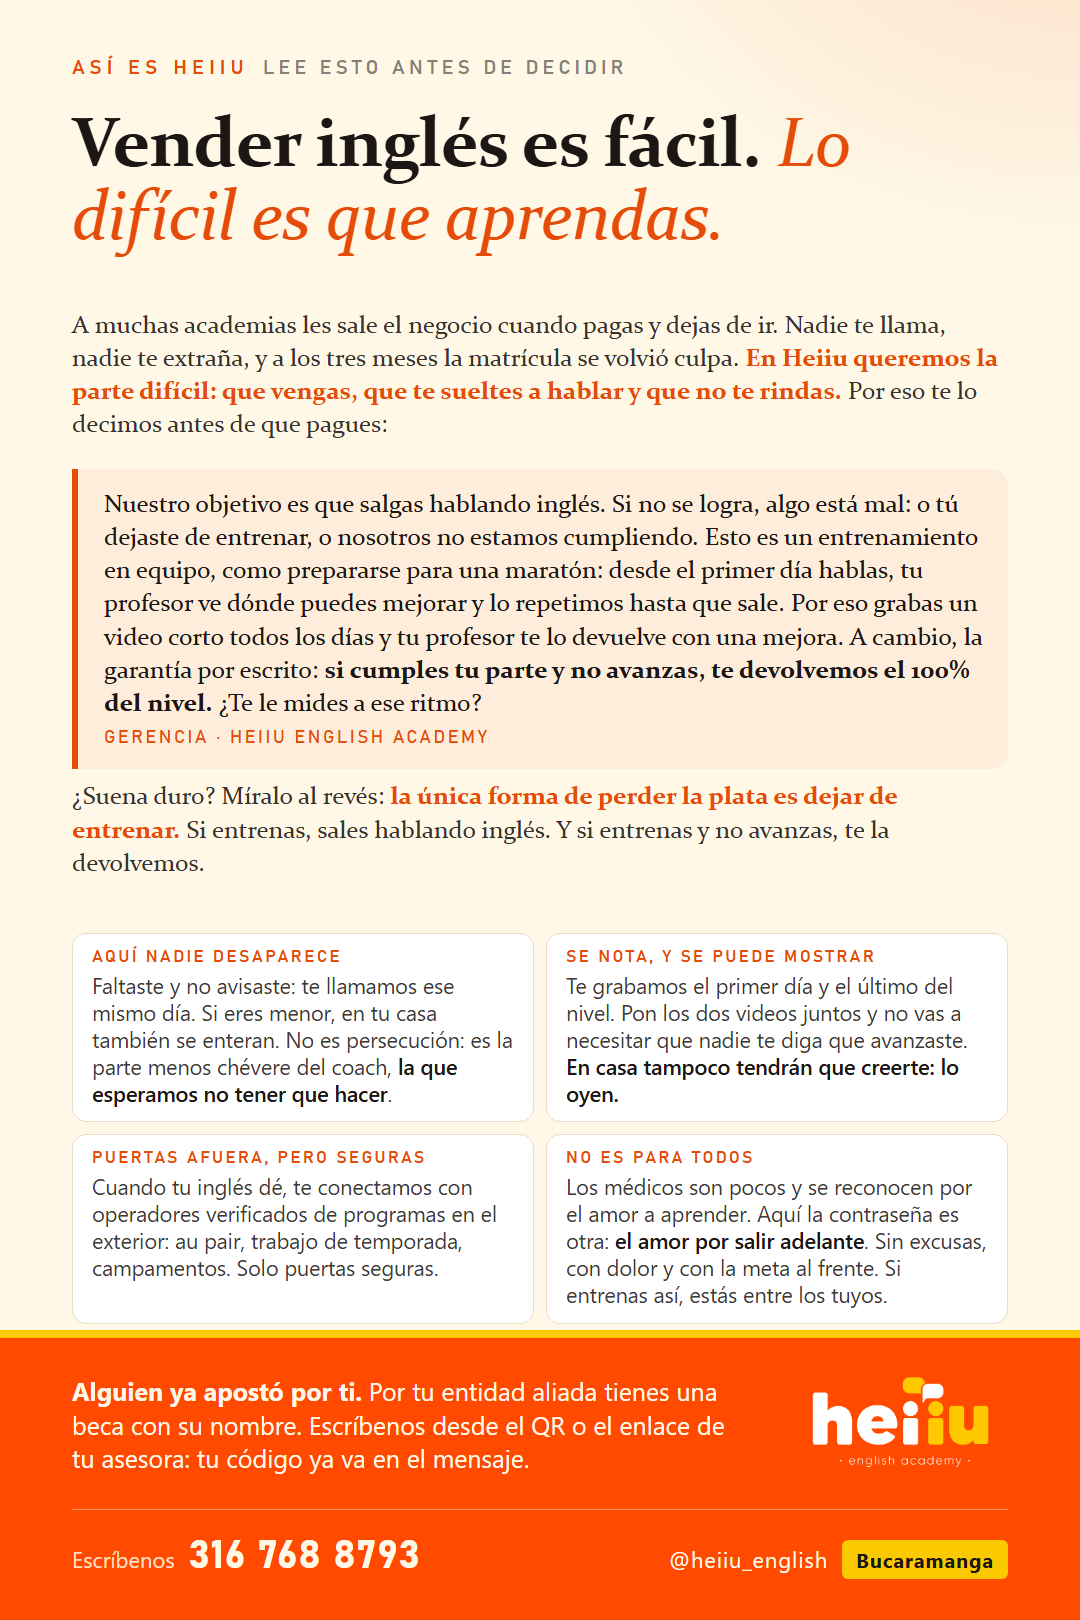
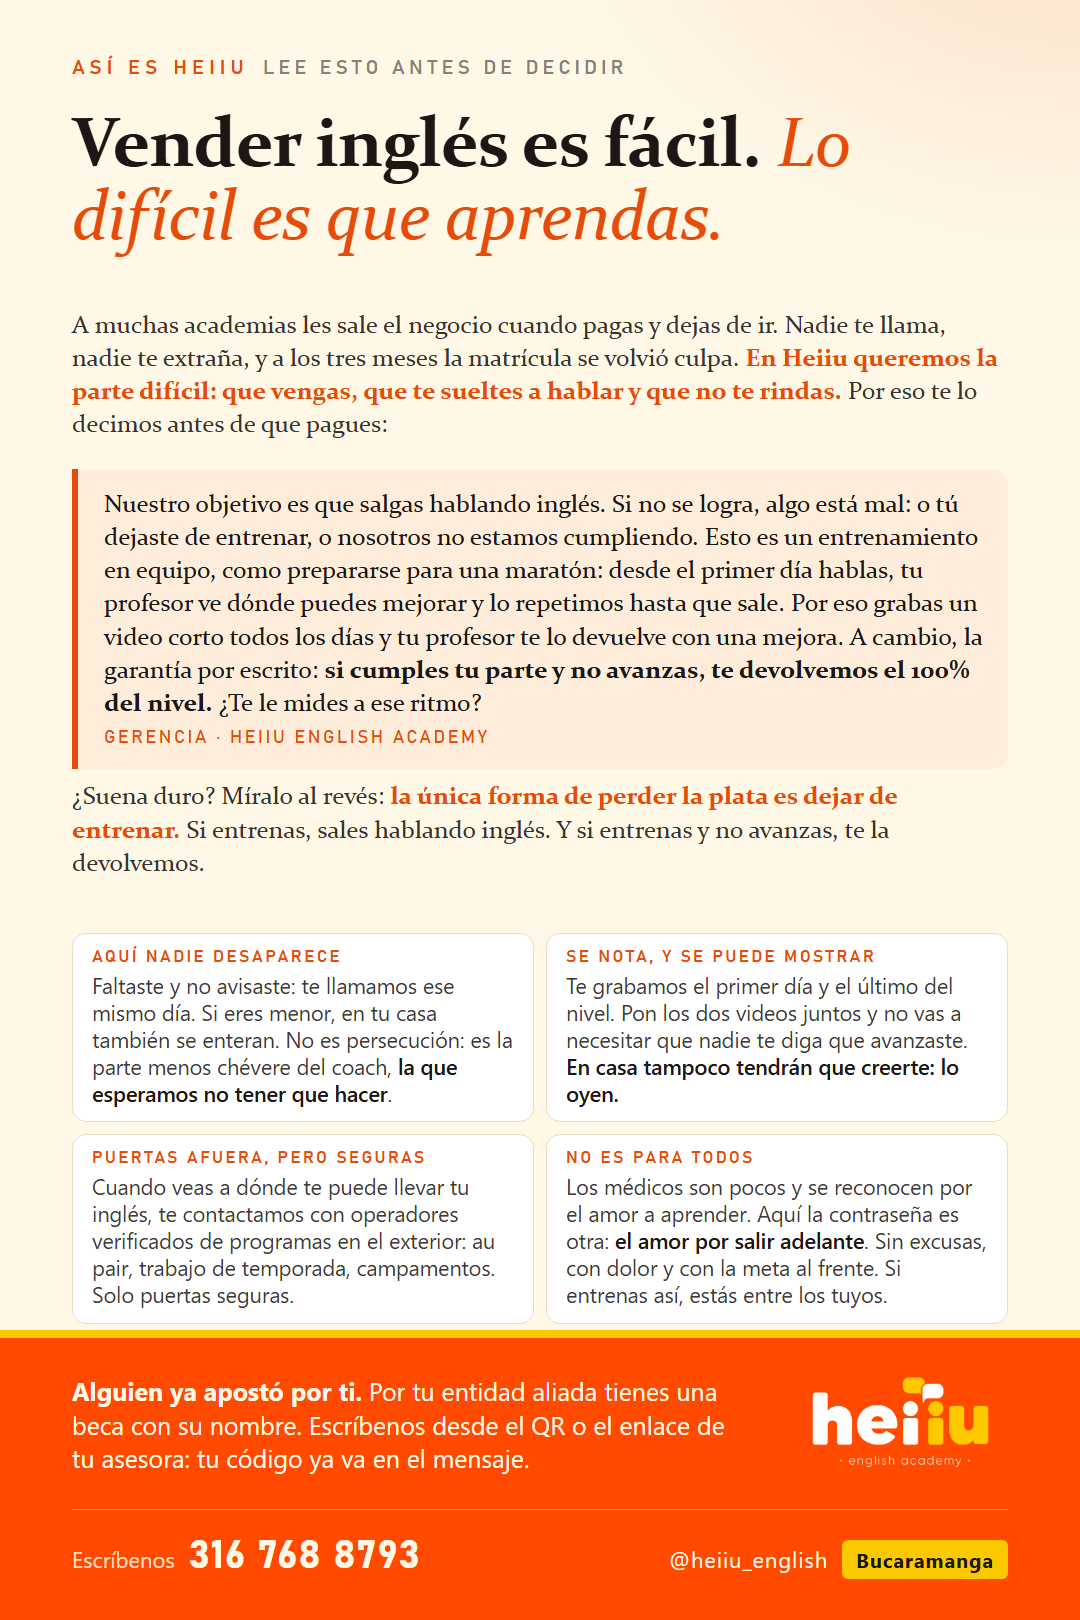
Pieza general respaldo: 'cuando veas a donde te puede llevar tu ingles, te contactamos con operadores verificados'

Changed region(s): [[0.0917, 0.7099, 0.4583, 0.8025]]

diff --git a/generadores/comercial/gen_piezas_conciencia.py b/generadores/comercial/gen_piezas_conciencia.py
@@ -129,7 +129,7 @@ PIEZAS = {
         st=[], lead='', big='', big2='',
         why=[('AQUÍ NADIE DESAPARECE', 'Faltaste y no avisaste: te llamamos ese mismo día. Si eres menor, en tu casa también se enteran. No es persecución: es la parte menos chévere del coach, <b>la que esperamos no tener que hacer</b>.', False),
              ('SE NOTA, Y SE PUEDE MOSTRAR', 'Te grabamos el primer día y el último del nivel. Pon los dos videos juntos y no vas a necesitar que nadie te diga que avanzaste. <b>En casa tampoco tendrán que creerte: lo oyen.</b>', False),
-             ('PUERTAS AFUERA, PERO SEGURAS', 'Cuando tu inglés dé, te conectamos con operadores verificados de programas en el exterior: au pair, trabajo de temporada, campamentos. Solo puertas seguras.', False),
+             ('PUERTAS AFUERA, PERO SEGURAS', 'Cuando veas a dónde te puede llevar tu inglés, te contactamos con operadores verificados de programas en el exterior: au pair, trabajo de temporada, campamentos. Solo puertas seguras.', False),
              ('NO ES PARA TODOS', 'Los médicos son pocos y se reconocen por el amor a aprender. Aquí la contraseña es otra: <b>el amor por salir adelante</b>. Sin excusas, con dolor y con la meta al frente. Si entrenas así, estás entre los tuyos.', False)],
         band='<b>Alguien ya apostó por ti.</b> Por tu entidad aliada tienes una beca con su nombre. Escríbenos desde el QR o el enlace de tu asesora: tu código ya va en el mensaje.',
         band_px=290),
